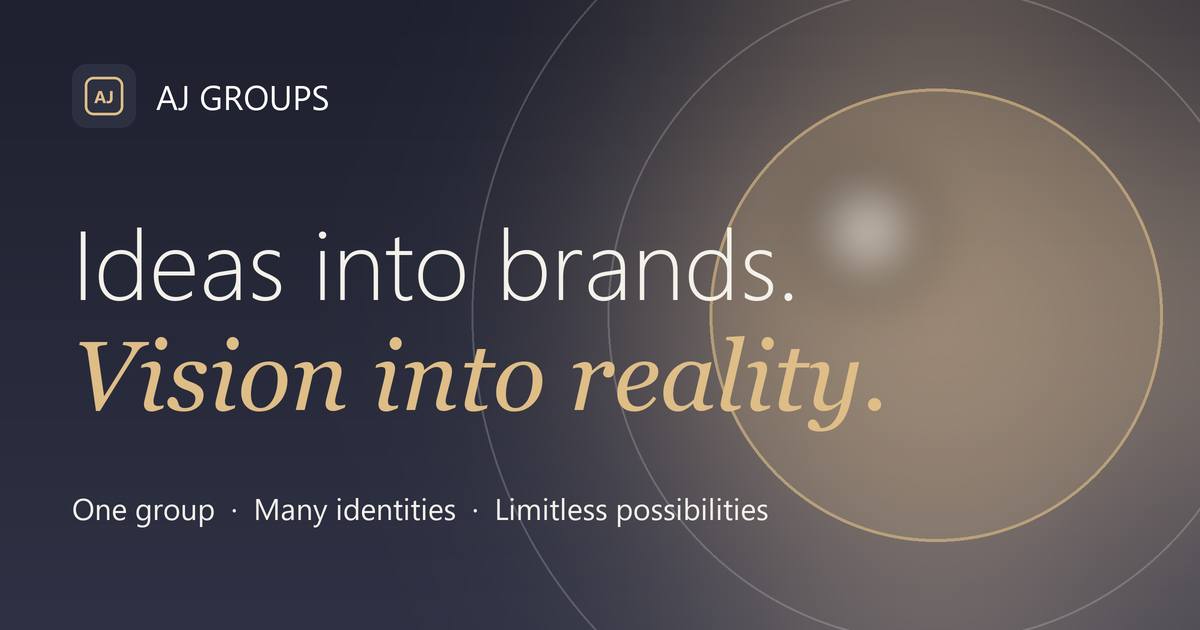
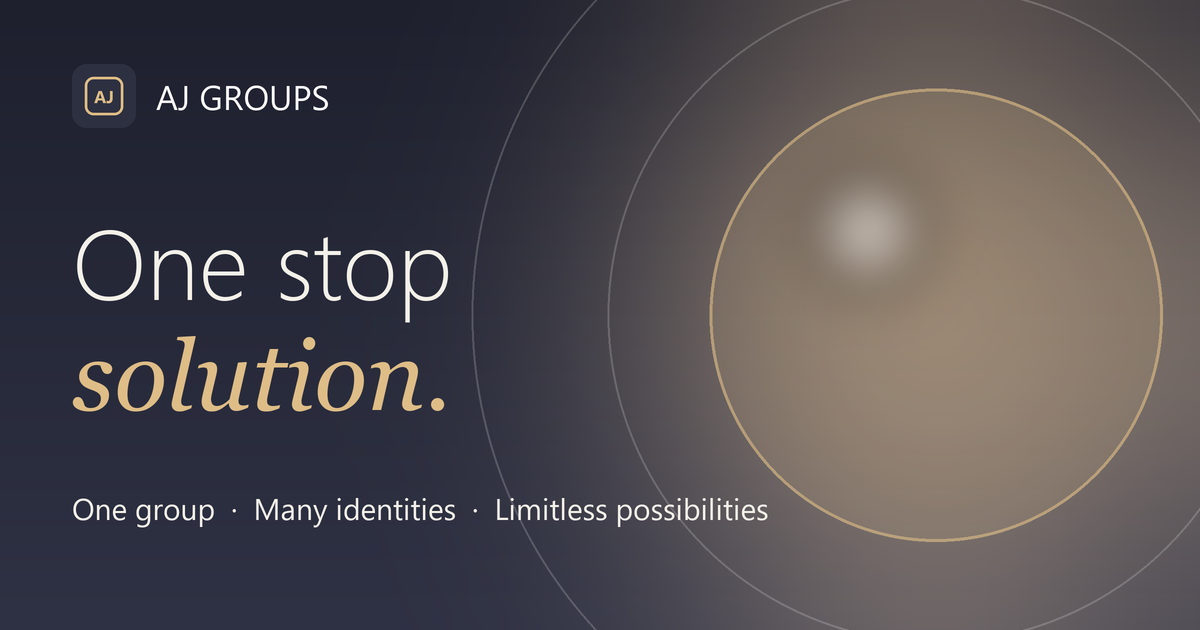
Group page: headline now One stop solution on one line scaled per display, venture card hairline draw-in and hover glint, updated titles and share image

Changed region(s): [[0.0617, 0.5127, 0.74, 0.6937], [0.0617, 0.3619, 0.6475, 0.4825]]

diff --git a/aj-groups/index.html b/aj-groups/index.html
@@ -3,12 +3,12 @@
 <head>
 <meta charset="utf-8">
 <meta name="viewport" content="width=device-width, initial-scale=1, viewport-fit=cover">
-<title>AJ GROUPS | Ideas into brands. Vision into reality.</title>
+<title>AJ GROUPS | One stop solution</title>
 <meta name="description" content="AJ Groups is a multi-venture business group bringing independent brands together under one parent identity: Bun Bun Cafe, Alven Studio, House of Fovo and more.">
 <meta name="theme-color" content="#2d3041">
 <link rel="icon" href="../assets/favicon.svg" type="image/svg+xml"><link rel="icon" href="../assets/favicon-32.png" sizes="32x32" type="image/png"><link rel="apple-touch-icon" href="../assets/apple-touch-icon.png">
 <meta property="og:type" content="website"><meta property="og:site_name" content="AJ GROUPS">
-<meta property="og:title" content="AJ GROUPS | Ideas into brands. Vision into reality.">
+<meta property="og:title" content="AJ GROUPS | One stop solution">
 <meta property="og:description" content="One group. Many identities. Limitless possibilities.">
 <meta property="og:url" content="https://roosewelt-nacth.github.io/AJ-groups/">
 <meta property="og:image" content="https://roosewelt-nacth.github.io/AJ-groups/assets/og-aj-groups.png"><meta property="og:image:width" content="1200"><meta property="og:image:height" content="630">
@@ -398,6 +398,24 @@ h1 em,h2 em,.stop .lead em{color:var(--em,#debd87)}
 .stop[data-i="1"] .vc{min-height:clamp(150px,23vh,215px)}
 @media (min-width:761px) and (max-height:860px){.vc-tx small{display:none}.vc-d{display:block}}
 .stack .vl.long{display:none}.stack .vl.long+.vs{display:inline}
+
+/* ---- venture cards: the hairline draws itself around each card when the slide opens, and a light travels the edge on hover ---- */
+@property --a{syntax:"<angle>";inherits:false;initial-value:0deg}
+@property --g{syntax:"<angle>";inherits:false;initial-value:0deg}
+.vc-img{border-radius:inherit}
+.vc::before{content:"";position:absolute;inset:0;z-index:3;pointer-events:none;border-radius:inherit;padding:1.5px;opacity:0;background:conic-gradient(from -90deg,var(--em,#debd87) var(--a),transparent calc(var(--a) + .6deg));-webkit-mask:linear-gradient(#000 0 0) content-box,linear-gradient(#000 0 0);-webkit-mask-composite:xor;mask-composite:exclude}
+.stop.cur .vc::before{animation:vdraw 1.3s cubic-bezier(.3,.7,.2,1) both;animation-delay:calc(.3s + var(--i,0) * .08s)}
+.vc.soon::before{filter:opacity(.8)}
+@keyframes vdraw{0%{--a:0deg;opacity:1}72%{--a:360deg;opacity:1}100%{--a:360deg;opacity:.55}}
+.vc-img::before{content:"";position:absolute;inset:0;z-index:2;pointer-events:none;border-radius:inherit;padding:1.5px;opacity:0;transition:opacity .35s;background:conic-gradient(from var(--g),transparent 0 72%,rgba(244,241,234,.95) 92%,transparent 100%);-webkit-mask:linear-gradient(#000 0 0) content-box,linear-gradient(#000 0 0);-webkit-mask-composite:xor;mask-composite:exclude}
+@keyframes vspin{to{--g:360deg}}
+@media (hover:hover){.vc:hover .vc-img::before{opacity:1;animation:vspin 2s linear infinite}.vc.soon:hover .vc-img::before{opacity:.6}}
+@media (prefers-reduced-motion:reduce){.stop.cur .vc::before{animation:none;--a:360deg;opacity:.55}.vc:hover .vc-img::before{animation:none}}
+.vc:nth-child(2){--i:1}.vc:nth-child(3){--i:2}.vc:nth-child(4){--i:3}.vc:nth-child(5){--i:4}.vc:nth-child(6){--i:5}.vc:nth-child(7){--i:6}.vc:nth-child(8){--i:7}
+.stop[data-i="0"] .lead{white-space:nowrap;max-width:none}.stop[data-i="0"] .lead em{display:inline;margin-left:.2em}.stack .stop[data-i="0"] .lead{max-width:none}
+.stop[data-i="0"]{width:min(620px,46vw)}.stop[data-i="0"] .lead{font-size:clamp(34px,3.9vw,64px);letter-spacing:-.045em}.stop[data-i="0"] .hglass{padding-block:clamp(20px,3vh,32px)}
+.stack .stop[data-i="0"]{width:auto}.stack .stop[data-i="0"] .lead{font-size:clamp(28px,9vw,42px)}
+.short .stop[data-i="0"]{width:min(56vw,460px)}.short .stop[data-i="0"] .lead{font-size:clamp(20px,6.4vh,28px)}
 </style>
 <script type="importmap">{"imports":{"three":"https://cdn.jsdelivr.net/npm/three@0.170.0/build/three.module.js"}}</script>
 <link rel="stylesheet" href="../assets/vt.css?v=4">
@@ -421,7 +439,7 @@ h1 em,h2 em,.stop .lead em{color:var(--em,#debd87)}
 <div class="cue" id="cue">↓ Scroll <span style="opacity:.6">down</span></div>
 <main>
   <article class="stop" data-i="0">
-    <div class="hglass"><p class="lead">Ideas into brands. <em>Vision into reality.</em></p>
+    <div class="hglass"><p class="lead">One stop <em>solution.</em></p>
       <p class="sub">We see possibilities where others see ideas. From creative ventures to emerging industries, we turn ambition into brands that make their mark.</p>
       <p class="tagl">One group · Many identities · Limitless possibilities</p></div>
     <div class="hc"><button type="button" class="hc-w" data-go="3"><span class="hc-b">Discover<br>our ventures</span><i aria-hidden="true">→</i></button><button type="button" class="hc-d" data-go="12"><span class="hc-b">Let’s<br>connect</span><i aria-hidden="true">→</i></button></div>
@@ -462,6 +480,6 @@ h1 em,h2 em,.stop .lead em{color:var(--em,#debd87)}
 <aside class="card" data-i="11"><small>08 · Inside</small><b>Digital Products</b><ul><li>Digital resources</li><li>Everyday needs</li><li>Practical tools</li></ul></aside>
 <form class="form" id="form" novalidate><h3>Talk <em>to us</em></h3><label class="f"><input name="n" placeholder="Name" aria-label="Name" autocomplete="name" required></label><label class="f"><input name="e" type="email" placeholder="E-mail" aria-label="E-mail" autocomplete="email" required></label><label class="f"><select name="b" aria-label="What is this about"><option value="">What is this about?</option><option>Business enquiry</option><option>Partnership or collaboration</option><option>Career opportunity</option><option>Something else</option></select></label><label class="f"><textarea name="m" placeholder="Message" aria-label="Message"></textarea></label><button type="submit"><span>Send message</span><i aria-hidden="true">→</i></button><div class="thx" aria-live="polite"><svg viewBox="0 0 52 52" aria-hidden="true"><circle cx="26" cy="26" r="23"/><path d="M15 27l8 8 14-17"/></svg><b>Thank you</b><p>We reply within a working day.<br><span>(Demo: nothing is sent yet)</span></p></div></form>
 <div class="spacer" aria-hidden="true"></div>
-<script type="module" src="main.js?v=52"></script>
+<script type="module" src="main.js?v=56"></script>
 </body>
 </html>

diff --git a/index.html b/index.html
@@ -3,12 +3,12 @@
 <head>
 <meta charset="utf-8">
 <meta name="viewport" content="width=device-width, initial-scale=1">
-<title>AJ GROUPS | Ideas into brands. Vision into reality.</title>
+<title>AJ GROUPS | One stop solution</title>
 <meta name="description" content="AJ Groups is a multi-venture business group bringing independent brands together under one parent identity.">
 <meta name="theme-color" content="#2d3041">
 <link rel="icon" href="assets/favicon.svg" type="image/svg+xml"><link rel="icon" href="assets/favicon-32.png" sizes="32x32" type="image/png"><link rel="apple-touch-icon" href="assets/apple-touch-icon.png">
 <meta property="og:type" content="website"><meta property="og:site_name" content="AJ GROUPS">
-<meta property="og:title" content="AJ GROUPS | Ideas into brands. Vision into reality.">
+<meta property="og:title" content="AJ GROUPS | One stop solution">
 <meta property="og:description" content="One group. Many identities. Limitless possibilities.">
 <meta property="og:url" content="https://roosewelt-nacth.github.io/AJ-groups/">
 <meta property="og:image" content="https://roosewelt-nacth.github.io/AJ-groups/assets/og-aj-groups.png"><meta property="og:image:width" content="1200"><meta property="og:image:height" content="630">
